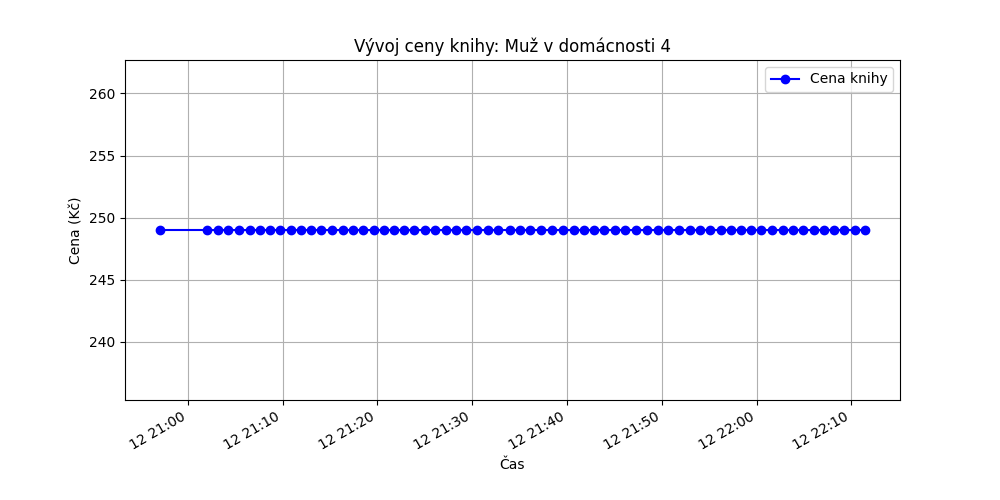
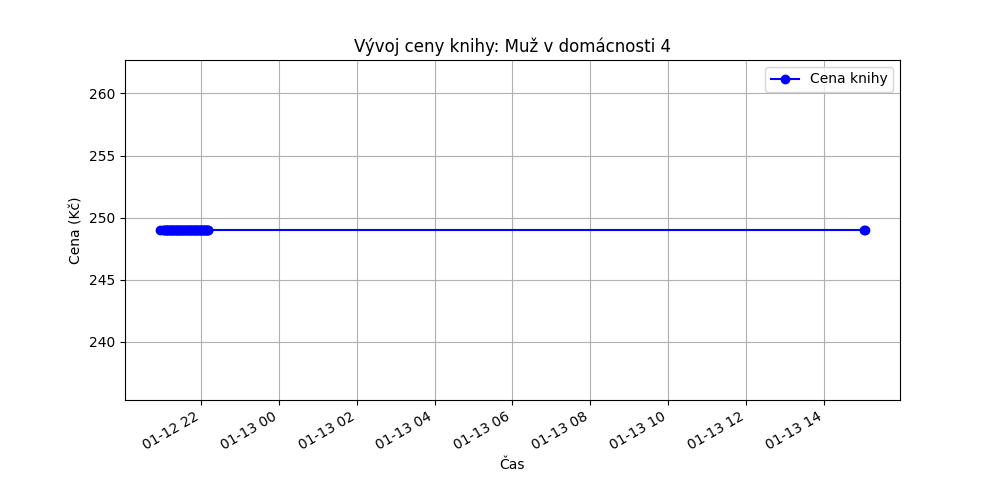
Aktualizace dokumentace a requirements

diff --git a/README.md b/README.md
@@ -1,20 +1,21 @@
 # 📚 Hlídač cen knih (Price Watcher)
 
-Jednoduchý Python skript, který automaticky sleduje cenu vybrané knihy na e-shopu. Pokud cena klesne pod nastavenou hranici, program vás upozorní.
+Tento projekt automaticky sleduje cenu vybrané knihy na e-shopu **Knihy Dobrovský**, ukládá historii cen a umí vykreslit graf vývoje.
 
 ## 🚀 Funkce
-* ✅ Stahuje aktuální cenu z webu (Web Scraping).
-* ✅ Porovnává cenu s vaším limitem.
-* ✅ Čistá struktura kódu připravená pro rozšíření (např. o e-mailové notifikace).
+* **Web Scraping:** Stahuje aktuální cenu přímo ze stránky produktu.
+* **Automatizace:** Běží v nekonečné smyčce a kontroluje cenu každou minutu.
+* **Ukládání dat:** Historie cen se zapisuje do souboru `ceny.csv`.
+* **Vizualizace:** Skript `graf.py` vykreslí graf vývoje ceny (`vyvoj_ceny.png`).
 
-## 🛠 Použité technologie
-* **Python 3**
-* **BeautifulSoup4** (analýza HTML)
-* **Requests** (stahování stránek)
+## 🛠 Použité technologie
+* Python 3
+* BeautifulSoup4 (analýza HTML)
+* Requests (stahování stránek)
+* Matplotlib (vykreslování grafů)
 
 ## ⚙ Jak spustit
-1. Nainstalujte závislosti:
-   pip install -r requirements.txt
 
-2. Spusťte hlídače:
-   python src/main.py
+1. **Nainstalujte závislosti:**
+   ```bash
+   pip install -r requirements.txt
